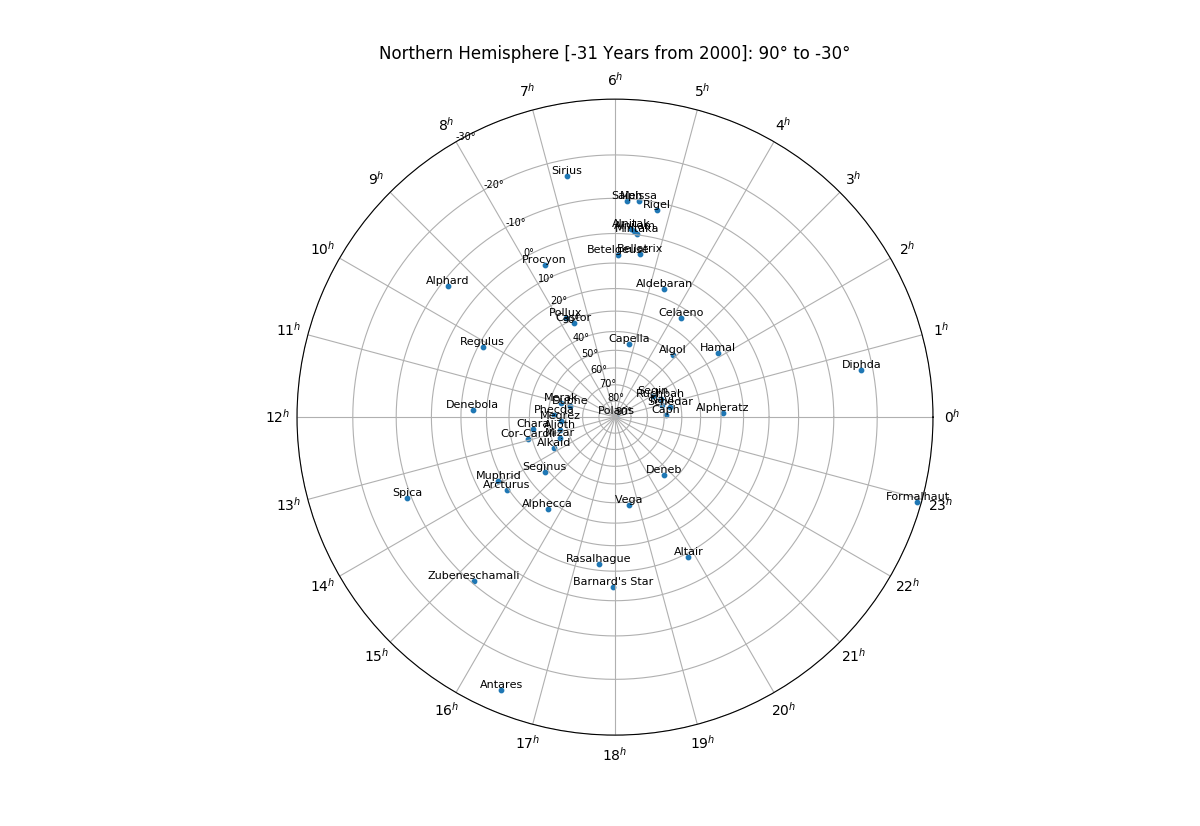
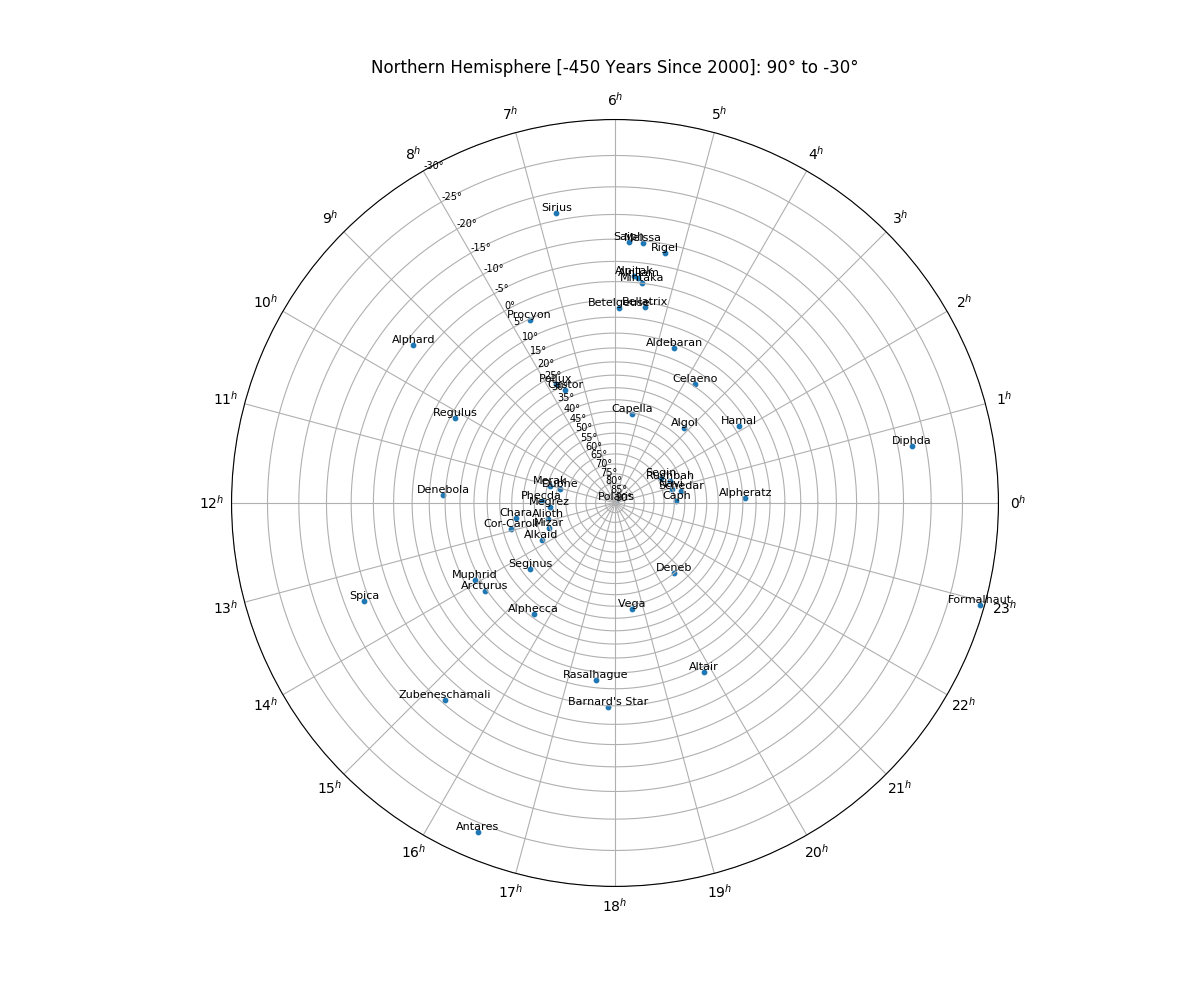
include precession, but inaccurate for periods > few centuries

diff --git a/page_x_astrolabe/generate_star_chart.py b/page_x_astrolabe/generate_star_chart.py
@@ -104,51 +104,22 @@ def calculateRAandDeclinationViaProperMotion(years_since_2000, star_ra, star_dec
 	#print("Final Dec: {0} degrees ".format(star_adjusted_declination))
 	return star_adjusted_ra, star_adjusted_declination
 
-def calculateObliquity(year_to_calculate_YYYY):
-	# Calculate the obliquity for a given year referenced to Jan 1 2000
-	# Ranges between 22.1 to about 24.5 degrees
-
-	# Find Obliquity in Julian Centuries (via "Expressions for IAU Precession Quantities": https://www.aanda.org/articles/aa/pdf/2003/48/aa4068.pdf)
-	days_since_1_jan_2000 = (year_to_calculate_YYYY - j2000) / 36525 # assumes year to measure is jan 1 YYYY (Julian Century = 36525)
-	obliquity_2000 = 84381.448 # arcseconds or 23.439167
-	obliquity_YYYY = obliquity_2000 - (46.84024 * days_since_1_jan_2000) - (0.00059 * days_since_1_jan_2000**2) + (0.001813 * days_since_1_jan_2000**3)
-	#print("Obliquity for {0} years ago/since = {1} arcseconds = {2} degrees".format(year_to_calculate_YYYY - 2022, obliquity_YYYY, obliquity_YYYY/3600))
-
-	obliquity_YYYY_in_degrees = obliquity_YYYY/3600
-	obliquity_YYYY_in_degrees = 23.439167 ### FOR TESTING: TO BE REMOVED
-	return obliquity_YYYY_in_degrees
-
-'''
-def plotObliquity():
-	# plot obliquity to view
-	x_dates = []
-	for date_since_2000 in range(0, 10700): # Last Max 10.7K years ago
-		x_dates.append(2000 - date_since_2000)
-	for date_since_2000 in range(1, 9800): # Next Min in 9.8K year to go
-		x_dates.append(2000 + date_since_2000)
-	print(min(x_dates))
-	print(max(x_dates))
-
-	y_obliquity_degrees = []
-	for date_YYYY in x_dates:
-		y_obliquity_degrees.append(calculateObliquity(date_YYYY))
-	fig = plt.figure(figsize=(12,12), dpi=100)
-	plt.title("Obliquity Cycle")
-	plt.scatter(x_dates, y_obliquity_degrees)
-	plt.show()
-'''
-
 def calculatePositionOfPolePrecession(years_since_2000, original_declination, original_ra):
 	# Calculate change in the position of the pole due to precession
-	obliquity_for_YYYY = calculateObliquity(years_since_2000) # currently 23.439167 for testing
+	obliquity_for_YYYY = 23.439167
 	print("Years Since 2000 = {0}".format(years_since_2000))
+
+	#years_since_2000 = -50 # TESTING = 1950 for Arcturus
+	#original_ra = convertRAhrtoRadians([["Arcturus", "14.15.8", 19.26, 2279.4, 208.7, 0.16]])[0][1] #TESTING for Arcturus
+	#print(original_ra)
+	#original_declination = 19 + 26/60 #TESTING for Arcturus
 
 	#plot_obliquity = True # option to plot obliquity for testing
 	#if plot_obliquity: plotObliquity()
 
 	# Rate of change of right ascension and declination of a star due to precession
 	declination_change_arcseconds_per_year = (19.9 * math.cos(original_ra)) * years_since_2000
-	ra_change_arcseconds_per_year = (46.1 + 19.9 * math.sin(original_ra) * math.tan(original_declination)) * years_since_2000
+	ra_change_arcseconds_per_year = (46.1 * (19.9 * math.sin(original_ra) * math.tan(np.deg2rad(original_declination)))) * years_since_2000
 
 	change_in_declination = declination_change_arcseconds_per_year/3600 # degrees
 	change_in_ra = np.deg2rad(ra_change_arcseconds_per_year/3600) # degrees to radians
@@ -156,11 +127,11 @@ def calculatePositionOfPolePrecession(years_since_2000, original_declination, or
 	final_declination_due_to_precession = original_declination + change_in_declination
 	final_ra_due_to_precession = original_ra + change_in_ra
 
-	#print("Dec: {0} + {1} = {2}".format(original_declination, change_in_declination, final_declination_due_to_precession))
-	#print("RA:  {0} + {1} = {2}".format(original_ra, change_in_ra, final_ra_due_to_precession))
+	print("Dec: {0} + {1} = {2}".format(original_declination, change_in_declination, final_declination_due_to_precession))
+	print("RA:  {0} + {1} = {2}".format(original_ra, change_in_ra, final_ra_due_to_precession))
 	return final_ra_due_to_precession, final_declination_due_to_precession
 
-def plotCircluar(full_star_list, northOrSouth, magnitude_filter, year_since_2000, displayStarNamesLabels, displayDeclinationNumbers, total_ruler_length, increment_by):
+def plotCircluar(full_star_list, northOrSouth, magnitude_filter, year_since_2000, displayStarNamesLabels, displayDeclinationNumbers, shouldIncludePrecession, total_ruler_length, increment_by):
 	# plot star chart as a circular graph
 	fig = plt.figure(figsize=(12,12), dpi=100)
 	ax = fig.subplots(subplot_kw={'projection': 'polar'})
@@ -221,13 +192,16 @@ def plotCircluar(full_star_list, northOrSouth, magnitude_filter, year_since_2000
 	#print("\n{0}ern Range of Declination: {1} to {2}".format(northOrSouth, min_dec_value, max_dec_value))
 
 	radius_of_circle = declination_script.calculateRadiusOfCircle(declination_min, total_ruler_length, northOrSouth)
+
 	# convert to x and y values for stars
 	x_star_labels = []
 	x_ra_values = []
 	y_dec_values = []
 	for star in star_list:
 		#print(star[0])
+
 		# Calculate position of star due to PROPER MOTION (changes RA and Declination over time)
+		#print("'{0}' original RA = {1} and Declination = {2}".format(star[0], np.rad2deg(star[1]), star[2]))
 		star_ra, star_declination = calculateRAandDeclinationViaProperMotion(year_since_2000, 
 																			star[1], 
 																			star[2], 
@@ -237,8 +211,10 @@ def plotCircluar(full_star_list, northOrSouth, magnitude_filter, year_since_2000
 		#print("Adjusted via Proper Motion: '{0}': {1} Declination (degrees) = {2} ".format(star[0], star[2], star_declination))
 
 		# Calculate new position of star due to PRECESSION (change RA and Declination over time)
-		#star_ra, star_declination = calculatePositionOfPolePrecession(year_since_2000, star_declination, star_ra)
-		### TODO: fix precession
+		# Optional since inaccurate over periods larger than a few centuries
+		if shouldIncludePrecession:
+			# CURRENTLY INACCURATE FOR LARGE PERIODS OF TIME (RECOMMENDED TO BE FALSE)
+ 			star_ra, star_declination = calculatePositionOfPolePrecession(year_since_2000, star_declination, star_ra)
 
 		dec_ruler_position = declination_script.calculateLength(star_declination, radius_of_circle, northOrSouth) # convert degree to position on radius
 
@@ -278,7 +254,9 @@ def plotCircluar(full_star_list, northOrSouth, magnitude_filter, year_since_2000
 	# Print for Testing:
 	for i, txt in enumerate(x_star_labels):
 		print("{0}: {1:05f} RA (degrees) and {2:05f} Declination (ruler)".format(txt, np.rad2deg(x_ra_values[i]), y_dec_values[i]))
-		print("Proper Motion for {0} Years\n".format(year_since_2000))
+		print(shouldIncludePrecession)
+		precession_text = " and Precession " if shouldIncludePrecession else " "
+		print("Proper Motion{0}for {1} Years\n".format(precession_text, year_since_2000))
 
 	ax.scatter(x_ra_values, y_dec_values, s=10)
 	years_for_title = year_since_2000
@@ -289,7 +267,7 @@ def plotCircluar(full_star_list, northOrSouth, magnitude_filter, year_since_2000
 	if abs(years_for_title) > 100000:
 		years_for_title = years_for_title / 100000
 		suffix = "M"
-	ax.set_title("{0}ern Hemisphere [{1}{2} Years from 2000]: {3}° to {4}°".format(northOrSouth, years_for_title, suffix, declination_max, declination_min))
+	ax.set_title("{0}ern Hemisphere [{1}{2} Years Since 2000]: {3}° to {4}°".format(northOrSouth, years_for_title, suffix, declination_max, declination_min))
 	plt.show()
 	fig.savefig('star_chart_{0}.png'.format(northOrSouth.lower()), dpi=fig.dpi)
 
@@ -441,8 +419,9 @@ if __name__ == '__main__':
 	northOrSouth = "Both" # options: "North", "South", "Both" (changes the declination range)
 	max_magnitude_filter = 10.0 # options: Filter by magnitude of star (magitude in Visual) (-2-10, 10 is dimmest, removes nothing)
 	total_ruler_length = 30 # units (cut in half for each side of the ruler) (currently has to be even)
-	increment_by = 10 # increment degrees by 1, 5, 10)
-	years_since_2000 = -31 # years since since 2000 (-31 = 1969)
+	increment_by = 5 # increment degrees by 1, 5, 10)
+	years_since_2000 = -450 # years since since 2000 (-31 = 1969)
+	include_precession = False # option to include the precession of the pole, but inaccurate for large periods of time
 
 	# Verify Hemisphere within valid range
 	if northOrSouth not in ["Both", "North", "South"]:
@@ -463,6 +442,7 @@ if __name__ == '__main__':
 					years_since_2000,
 					displayStarNames,
 					displayDeclinationNumbers,
+					include_precession,
 					total_ruler_length,
 					increment_by)
 	if northOrSouth == "Both":
@@ -476,6 +456,7 @@ if __name__ == '__main__':
 					years_since_2000,
 					displayStarNames,
 					displayDeclinationNumbers,
+					include_precession,
 					total_ruler_length,
 					increment_by)
 		# South:
@@ -487,6 +468,7 @@ if __name__ == '__main__':
 					years_since_2000,
 					displayStarNames,
 					displayDeclinationNumbers,
+					include_precession,
 					total_ruler_length,
 					increment_by)
 
